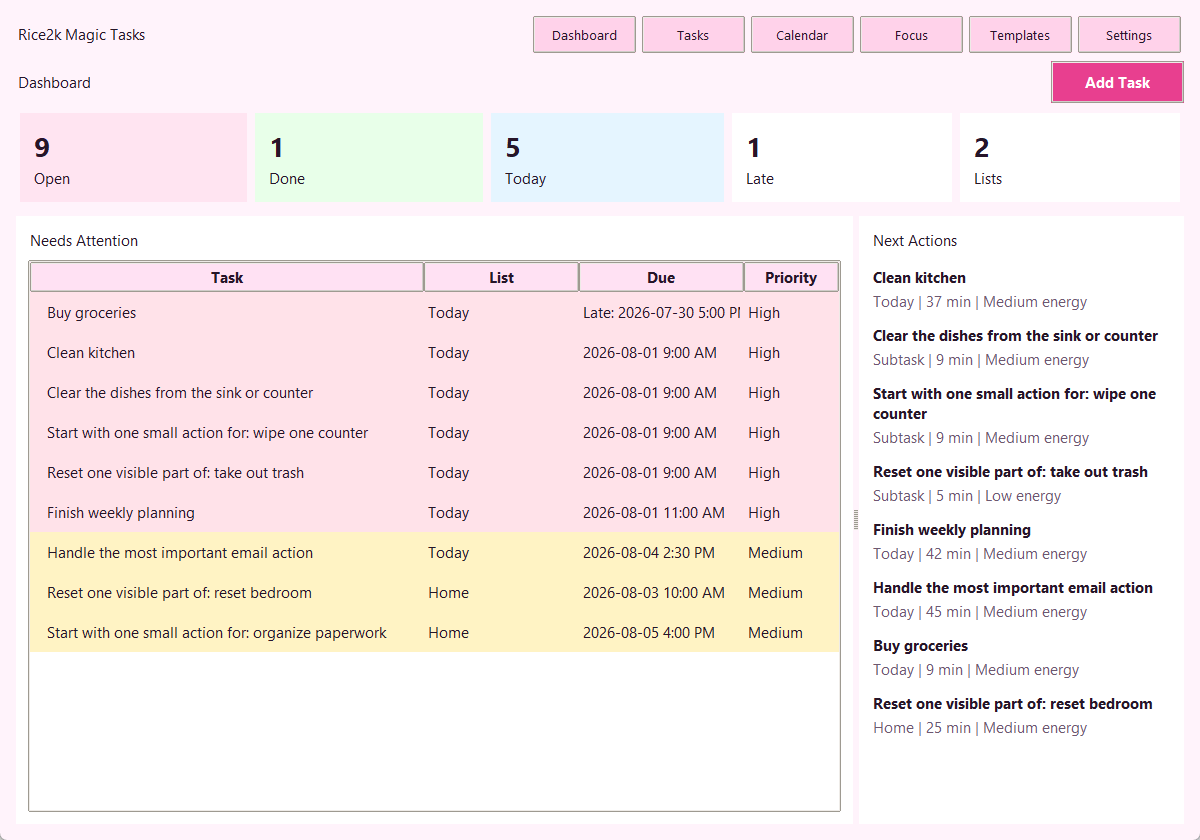
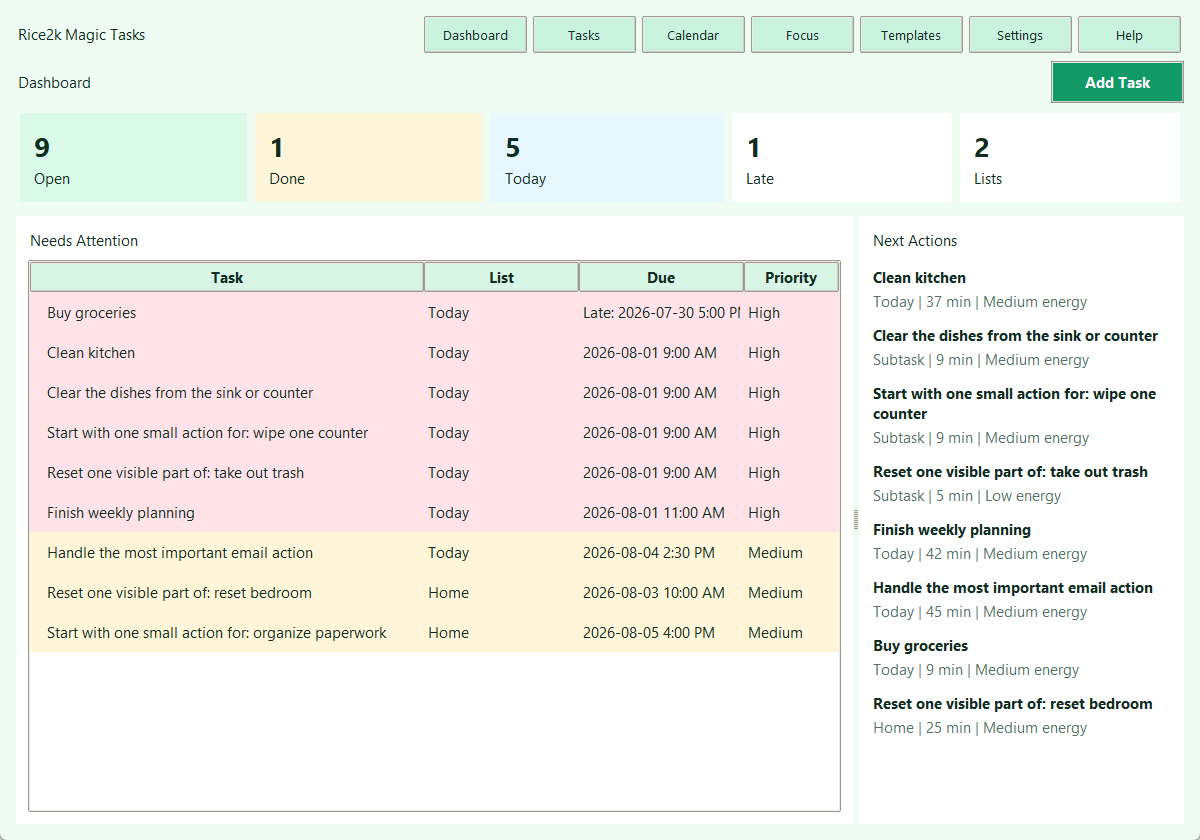
Add help search shortcuts and themes

Changed region(s): [[0.3392, 0.0, 0.9867, 0.1238], [0.0, 0.3095, 0.7092, 0.3714], [0.0, 0.1238, 0.2158, 0.2476]]

diff --git a/src/rice2k_magic_tasks.py b/src/rice2k_magic_tasks.py
@@ -21,7 +21,7 @@ from tkinter import Canvas, Menu, PhotoImage, StringVar, Text, Tk, Toplevel, fil
 from tkinter import ttk
 
 APP_NAME = "Rice2k Magic Tasks"
-VERSION = "2.7.0"
+VERSION = "2.8.0"
 APP_DIR = Path(os.getenv("APPDATA", Path.home())) / "Rice2kMagicTasks"
 DATA_FILE = APP_DIR / "tasks.json"
 
@@ -199,6 +199,52 @@ THEMES = {
         "card_text": "#25193c",
         "description": "Purple, teal, and soft gold with strong readable text.",
     },
+    "Mint Fresh": {
+        "bg": "#eefcf4",
+        "panel": "#ffffff",
+        "panel2": "#d8f5e6",
+        "card1": "#daf9e8",
+        "card2": "#e6f7ff",
+        "card3": "#fff5d8",
+        "high_bg": "#ffe3e8",
+        "medium_bg": "#fff5d8",
+        "done_bg": "#e4f6eb",
+        "text": "#102d22",
+        "muted": "#527366",
+        "accent": "#129968",
+        "accent2": "#c9f2df",
+        "accent3": "#0b87a6",
+        "danger": "#b93f5e",
+        "done": "#168a5f",
+        "button_text": "#ffffff",
+        "hero": "#087a57",
+        "hero_text": "#ffffff",
+        "card_text": "#102d22",
+        "description": "Fresh green, blue, and gold with crisp task-card contrast.",
+    },
+    "Graphite Calm": {
+        "bg": "#111318",
+        "panel": "#1b1f27",
+        "panel2": "#2a303b",
+        "card1": "#233248",
+        "card2": "#3a3020",
+        "card3": "#20362d",
+        "high_bg": "#3a2029",
+        "medium_bg": "#3a3020",
+        "done_bg": "#202a25",
+        "text": "#f4f7fb",
+        "muted": "#b8c0cc",
+        "accent": "#69a7ff",
+        "accent2": "#2d4260",
+        "accent3": "#65d6ad",
+        "danger": "#ff7b91",
+        "done": "#65d6ad",
+        "button_text": "#10141b",
+        "hero": "#203d66",
+        "hero_text": "#f4f7fb",
+        "card_text": "#f4f7fb",
+        "description": "A dark gray theme with blue highlights and softer contrast than black.",
+    },
     "Black & Green": {
         "bg": "#020504",
         "panel": "#07110b",
@@ -232,6 +278,8 @@ THEME_ALIASES = {
     "Focus Contrast": "Black & Green",
     "Soft Pastel": "Candy Pop",
     "Clean Blue": "Ocean Glow",
+    "Mint": "Mint Fresh",
+    "Graphite": "Graphite Calm",
 }
 
 DEFAULT_SETTINGS = {
@@ -708,6 +756,7 @@ class MagicTasksApp:
         self.configure_style()
         self.build_shell()
         self.apply_theme(self.data["settings"]["theme"])
+        self.register_shortcuts()
         self.show_tasks()
         self.setup_tray()
         self.root.after(1000, self.check_reminders)
@@ -832,10 +881,17 @@ class MagicTasksApp:
         ttk.Label(self.header, text=APP_NAME, style="Title.TLabel").pack(side="left")
         self.nav = ttk.Frame(self.header)
         self.nav.pack(side="right")
-        for name in ["Dashboard", "Tasks", "Calendar", "Focus", "Templates", "Settings"]:
+        for name in ["Dashboard", "Tasks", "Calendar", "Focus", "Templates", "Settings", "Help"]:
             ttk.Button(self.nav, text=name, style="Nav.TButton", command=lambda n=name: self.route(n)).pack(side="left", padx=3)
         self.content = ttk.Frame(self.shell)
         self.content.pack(fill="both", expand=True)
+
+    def register_shortcuts(self) -> None:
+        self.root.bind_all("<Control-k>", lambda _event: self.quick_add_dialog())
+        self.root.bind_all("<Control-t>", lambda _event: self.route("Tasks"))
+        self.root.bind_all("<Control-d>", lambda _event: self.route("Dashboard"))
+        self.root.bind_all("<Control-m>", lambda _event: self.route("Calendar"))
+        self.root.bind_all("<F1>", lambda _event: self.route("Help"))
 
     def clear_content(self) -> None:
         self.root.unbind("<Escape>")
@@ -851,6 +907,7 @@ class MagicTasksApp:
             "Focus": self.show_focus,
             "Templates": self.show_templates,
             "Settings": self.show_settings,
+            "Help": self.show_help,
         }[name]()
 
     def panel(self, parent, padding: int = 12, style: str = "Panel.TFrame"):
@@ -1018,6 +1075,23 @@ class MagicTasksApp:
         theme_selector.pack(side="left")
         theme_selector.bind("<<ComboboxSelected>>", self.switch_task_theme)
 
+        filter_bar = ttk.Frame(page)
+        filter_bar.pack(fill="x", pady=(0, 8))
+        ttk.Label(filter_bar, text="Search").pack(side="left", padx=(0, 4))
+        self.search_text = StringVar()
+        search_entry = ttk.Entry(filter_bar, textvariable=self.search_text, width=34)
+        search_entry.pack(side="left", fill="x", expand=True, padx=(0, 8))
+        search_entry.bind("<KeyRelease>", lambda _event: self.populate_task_tree())
+        self.show_done_var = StringVar(value="True")
+        ttk.Checkbutton(
+            filter_bar,
+            text="Show completed",
+            variable=self.show_done_var,
+            onvalue="True",
+            offvalue="False",
+            command=self.populate_task_tree,
+        ).pack(side="left")
+
         add_panel = self.panel(page, padding=14)
         add_panel.pack(fill="x", pady=(0, 10))
         self.task_text = StringVar()
@@ -1109,14 +1183,41 @@ class MagicTasksApp:
         self.task_card_widgets = {}
         for child in self.task_list_frame.winfo_children():
             child.destroy()
+        shown = 0
+        query = clean_text(self.search_text.get()).lower() if hasattr(self, "search_text") else ""
+        show_done = self.show_done_var.get() == "True" if hasattr(self, "show_done_var") else True
         for task in self.active_list().get("tasks", []):
-            self.render_task_card(task, depth=0)
+            parent_visible = self.task_visible(task, query, show_done)
+            if parent_visible:
+                self.render_task_card(task, depth=0)
+                shown += 1
             for subtask in task.get("subtasks", []):
-                self.render_task_card(subtask, depth=1)
+                if self.task_visible(subtask, query, show_done):
+                    self.render_task_card(subtask, depth=1 if parent_visible else 0)
+                    shown += 1
         if not self.active_list().get("tasks"):
             empty = ttk.Frame(self.task_list_frame, style="Panel.TFrame", padding=22)
             empty.pack(fill="x")
             ttk.Label(empty, text="No tasks yet. Add one above and break it down when it feels too big.", style="Muted.TLabel", wraplength=720).pack(anchor="center")
+        elif shown == 0:
+            empty = ttk.Frame(self.task_list_frame, style="Panel.TFrame", padding=22)
+            empty.pack(fill="x")
+            ttk.Label(empty, text="No matching tasks. Clear the search or turn on completed tasks.", style="Muted.TLabel", wraplength=720).pack(anchor="center")
+
+    def task_visible(self, task: dict, query: str, show_done: bool) -> bool:
+        if task.get("completed") and not show_done:
+            return False
+        if not query:
+            return True
+        fields = [
+            task.get("text", ""),
+            task.get("notes", ""),
+            task.get("category", ""),
+            task.get("energy", ""),
+            task.get("priority", ""),
+            task.get("due_date", ""),
+        ]
+        return query in " ".join(fields).lower()
 
     def task_styles(self, task: dict, is_selected: bool) -> tuple[str, str, str]:
         if task.get("completed"):
@@ -1900,6 +2001,63 @@ class MagicTasksApp:
         self.data.setdefault("templates", []).append({"name": f"{current['name']} Template", "tasks": tasks})
         self.save_data()
         self.show_templates()
+
+    def show_help(self) -> None:
+        self.clear_content()
+        ttk.Label(self.content, text="Help", style="Title.TLabel").pack(anchor="w", pady=(0, 10))
+        layout = ttk.PanedWindow(self.content, orient="horizontal")
+        layout.pack(fill="both", expand=True)
+        left = self.panel(layout)
+        right = self.panel(layout)
+        layout.add(left, weight=3)
+        layout.add(right, weight=2)
+
+        ttk.Label(left, text="Quick Start", style="Section.TLabel").pack(anchor="w", pady=(0, 8))
+        steps = [
+            "Type one messy task into Add new item.",
+            "Use Spiciness level to choose how many steps you want.",
+            "Add a due date, time, or repeat if the task needs one.",
+            "Press Add. The planner rewrites the task and adds helpful notes.",
+            "Use Steps for a breakdown, Edit for details, Add for subtasks, and Del to remove.",
+            "Right-click any task for more tools like simplify, duplicate, move, focus, and estimate.",
+        ]
+        for index, text in enumerate(steps, start=1):
+            row = ttk.Frame(left, style="Panel.TFrame")
+            row.pack(fill="x", pady=3)
+            ttk.Label(row, text=f"{index}.", style="Panel.TLabel", font=UI_FONT_BOLD, width=3).pack(side="left", anchor="n")
+            ttk.Label(row, text=text, style="Panel.TLabel", wraplength=620).pack(side="left", fill="x", expand=True)
+
+        ttk.Label(left, text="Reading Tips", style="Section.TLabel").pack(anchor="w", pady=(16, 8))
+        tips = [
+            "Use Search to narrow a long list.",
+            "Turn off Show completed when finished tasks are distracting.",
+            "Use the Theme picker on the task page for instant color changes.",
+            "Try Focus when you want the app to show only one next task.",
+        ]
+        for tip in tips:
+            ttk.Label(left, text=f"- {tip}", style="Panel.TLabel", wraplength=650).pack(anchor="w", pady=2)
+
+        ttk.Label(right, text="Keyboard Shortcuts", style="Section.TLabel").pack(anchor="w", pady=(0, 8))
+        shortcuts = [
+            ("Ctrl+K", "Quick add a task"),
+            ("Ctrl+T", "Open Tasks"),
+            ("Ctrl+D", "Open Dashboard"),
+            ("Ctrl+M", "Open Calendar"),
+            ("F1", "Open Help"),
+            ("Enter", "Add from the main task box"),
+            ("Double-click task", "Edit selected task"),
+            ("Right-click task", "Open task tools"),
+        ]
+        for keys, action in shortcuts:
+            row = ttk.Frame(right, style="Panel.TFrame")
+            row.pack(fill="x", pady=4)
+            ttk.Label(row, text=keys, style="Panel.TLabel", font=UI_FONT_BOLD, width=16).pack(side="left")
+            ttk.Label(row, text=action, style="Muted.TLabel", wraplength=320).pack(side="left", fill="x", expand=True)
+
+        ttk.Label(right, text="Good Starter Tasks", style="Section.TLabel").pack(anchor="w", pady=(18, 8))
+        examples = ["clean kitchen", "send project update", "prepare appointment", "organize paperwork"]
+        for example in examples:
+            ttk.Button(right, text=example, command=lambda value=example: self.quick_add(value)).pack(fill="x", pady=3)
 
     def show_settings(self) -> None:
         self.clear_content()

diff --git a/tests/smoke_test.py b/tests/smoke_test.py
@@ -40,6 +40,8 @@ def test_theme_count_and_names():
         "Sunset Arcade",
         "Warm Focus",
         "Lavender Pop",
+        "Mint Fresh",
+        "Graphite Calm",
         "Black & Green",
     ]
 
@@ -51,6 +53,8 @@ def test_old_theme_names_migrate():
     assert normalize_theme_name("Sunset Arcade") == "Sunset Arcade"
     assert normalize_theme_name("Soft Pastel") == "Candy Pop"
     assert normalize_theme_name("Clean Blue") == "Ocean Glow"
+    assert normalize_theme_name("Mint") == "Mint Fresh"
+    assert normalize_theme_name("Graphite") == "Graphite Calm"
 
 
 def test_icon_assets_exist():

diff --git a/README.md b/README.md
@@ -9,9 +9,9 @@
 </p>
 
 <p align="center">
-  <img alt="Version" src="https://img.shields.io/badge/version-2.7.0-e83f8f">
+  <img alt="Version" src="https://img.shields.io/badge/version-2.8.0-e83f8f">
   <img alt="Platform" src="https://img.shields.io/badge/platform-Windows-008bb8">
-  <img alt="Themes" src="https://img.shields.io/badge/themes-8-7b4ce3">
+  <img alt="Themes" src="https://img.shields.io/badge/themes-10-7b4ce3">
   <img alt="License" src="https://img.shields.io/badge/license-MIT-19a974">
 </p>
 
@@ -23,16 +23,18 @@
 
 ![Theme settings](docs/screenshots/themes.png)
 
+![Help screen](docs/screenshots/help.png)
+
 ## Download
 
 Get the latest Windows build from the [Releases](../../releases) page.
 
-The v2.7.0 release includes:
+The v2.8.0 release includes:
 
-- `Rice2k-Magic-Tasks-v2.7.0.exe` - single-file Windows app.
-- `Rice2k-Magic-Tasks-v2.7.0.zip` - release package.
-- `Rice2k-Magic-Tasks-v2.7.0.sha256` - checksum file.
-- `Rice2k-Magic-Tasks-Source-v2.7.0.zip` - source archive.
+- `Rice2k-Magic-Tasks-v2.8.0.exe` - single-file Windows app.
+- `Rice2k-Magic-Tasks-v2.8.0.zip` - release package.
+- `Rice2k-Magic-Tasks-v2.8.0.sha256` - checksum file.
+- `Rice2k-Magic-Tasks-Source-v2.8.0.zip` - source archive.
 
 Windows may show a SmartScreen warning because the app is unsigned.
 
@@ -47,7 +49,7 @@ Windows may show a SmartScreen warning because the app is unsigned.
 
 ## How To Use
 
-1. Open `Rice2k-Magic-Tasks-v2.7.0.exe`.
+1. Open `Rice2k-Magic-Tasks-v2.8.0.exe`.
 2. Type a task into **Add new item**.
 3. Use **Spiciness level** to choose how detailed the breakdown should be.
 4. Add a due date, time, or repeat setting if you want one.
@@ -58,11 +60,23 @@ Windows may show a SmartScreen warning because the app is unsigned.
    - **Add** adds a subtask.
    - **Del** removes the task.
 7. Right-click a task for more actions, including simplify, duplicate, move, estimate, focus, and complete.
-8. Change themes instantly from the task screen or from **Settings**.
+8. Use **Search** or **Show completed** when the list gets long.
+9. Change themes instantly from the task screen or from **Settings**.
+10. Press **F1** for the built-in help page.
+
+## Shortcuts
+
+- `Ctrl+K` - quick add a task.
+- `Ctrl+T` - open Tasks.
+- `Ctrl+D` - open Dashboard.
+- `Ctrl+M` - open Calendar.
+- `F1` - open Help.
+- Double-click a task to edit it.
+- Right-click a task to open task tools.
 
 ## Themes
 
-Rice2k Magic Tasks now includes eight themes:
+Rice2k Magic Tasks now includes ten themes:
 
 - Classic Web
 - Candy Pop
@@ -71,6 +85,8 @@ Rice2k Magic Tasks now includes eight themes:
 - Sunset Arcade
 - Warm Focus
 - Lavender Pop
+- Mint Fresh
+- Graphite Calm
 - Black & Green
 
 Settings also includes smaller task rows and a plain background option for reading comfort.
@@ -89,9 +105,11 @@ Settings also includes smaller task rows and a plain background option for readi
 - Nested subtasks.
 - Large clickable task cards.
 - Colored priority stripes.
+- Search and completed-task filtering.
 - Checkbox controls.
 - Labeled icon buttons.
 - Right-click task menu.
+- Built-in Help page with quick-start steps and shortcuts.
 - Manual editing with notes, due date, due time, reminder timing, and recurrence.
 - Move tasks up or down inside a list.
 
@@ -174,7 +192,7 @@ No account is required. The app does not upload task data by default.
 After downloading the EXE or ZIP, compare its SHA-256 hash with the release checksum file.
 
 ```powershell
-Get-FileHash .\Rice2k-Magic-Tasks-v2.7.0.exe -Algorithm SHA256
+Get-FileHash .\Rice2k-Magic-Tasks-v2.8.0.exe -Algorithm SHA256
 ```
 
 ## Project Layout

diff --git a/docs/RELEASE_NOTES.md b/docs/RELEASE_NOTES.md
@@ -1,19 +1,17 @@
-# Rice2k Magic Tasks v2.7.0
+# Rice2k Magic Tasks v2.8.0
 
-Colorful usability and GitHub page update.
+Help, search, shortcuts, and theme expansion update.
 
 ## Highlights
 
-- Added four full themes: Candy Pop, Ocean Glow, Sunset Arcade, and Lavender Pop.
-- Kept Classic Web, Soft Blue, Warm Focus, and Black & Green for eight total themes.
-- Added a quick theme picker directly on the task screen.
-- Increased the default app size so controls have more room.
-- Improved task cards with colored priority stripes.
-- Moved card action buttons under task text so long task names stay readable.
-- Added clearer labeled icon buttons for Steps, Edit, Add, and Del.
-- Improved Dashboard wrapping for long next-action names.
-- Updated the README with a colorful layout, app icon, screenshots, and how-to-use steps.
-- Added real app screenshots for Dashboard, Tasks, and Themes.
+- Added a built-in Help page with quick-start steps, reading tips, shortcuts, and starter tasks.
+- Added keyboard shortcuts for quick add, Tasks, Dashboard, Calendar, and Help.
+- Added task search on the main task screen.
+- Added a Show completed toggle to hide finished tasks when they get distracting.
+- Added two full themes: Mint Fresh and Graphite Calm.
+- Updated the app to ten total themes.
+- Updated README version badges, screenshots, how-to-use steps, and shortcuts.
+- Added a Help screenshot for the GitHub repository page.
 
 ## Notes
 
